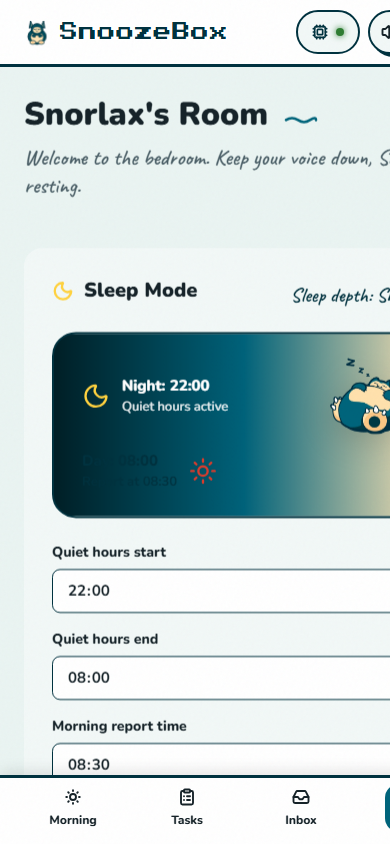
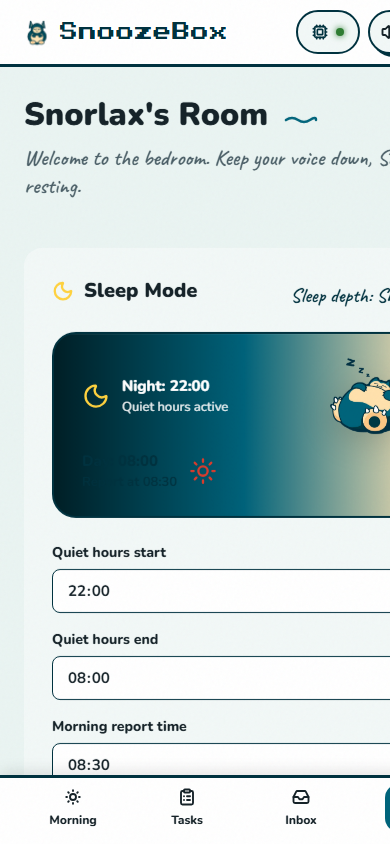
fix(mascot): remove redundant floating SVG Z glyphs causing double overlap

diff --git a/frontend/src/components/snorlax/Mascot.tsx b/frontend/src/components/snorlax/Mascot.tsx
@@ -117,58 +117,6 @@ export const Mascot: React.FC<MascotProps> = ({
             filter: 'drop-shadow(0px 8px 16px rgba(0, 0, 0, 0.16))',
           }}
         />
-
-        {/* Floating SVG Z glyphs for hero and large sizes */}
-        {(isHero || isLg) && (
-          <>
-            <svg
-              className="floating-z-1"
-              aria-hidden="true"
-              viewBox="0 0 120 100"
-              style={{
-                position: 'absolute',
-                top: isHero ? '10%' : '2%',
-                left: isHero ? '34%' : '28%',
-                width: isHero ? '26px' : '16px',
-                height: isHero ? '22px' : '14px',
-                pointerEvents: 'none',
-                overflow: 'visible',
-              }}
-            >
-              <path
-                d="M 18,18 L 98,38 L 16,84 L 96,96"
-                fill="none"
-                stroke="var(--snorlax-outline, #00323F)"
-                strokeWidth="24"
-                strokeLinecap="round"
-                strokeLinejoin="round"
-              />
-            </svg>
-            <svg
-              className="floating-z-2"
-              aria-hidden="true"
-              viewBox="0 0 120 100"
-              style={{
-                position: 'absolute',
-                top: isHero ? '2%' : '-6%',
-                left: isHero ? '24%' : '18%',
-                width: isHero ? '20px' : '13px',
-                height: isHero ? '17px' : '11px',
-                pointerEvents: 'none',
-                overflow: 'visible',
-              }}
-            >
-              <path
-                d="M 18,18 L 98,38 L 16,84 L 96,96"
-                fill="none"
-                stroke="var(--snorlax-outline, #00323F)"
-                strokeWidth="24"
-                strokeLinecap="round"
-                strokeLinejoin="round"
-              />
-            </svg>
-          </>
-        )}
       </div>
     );
   }
